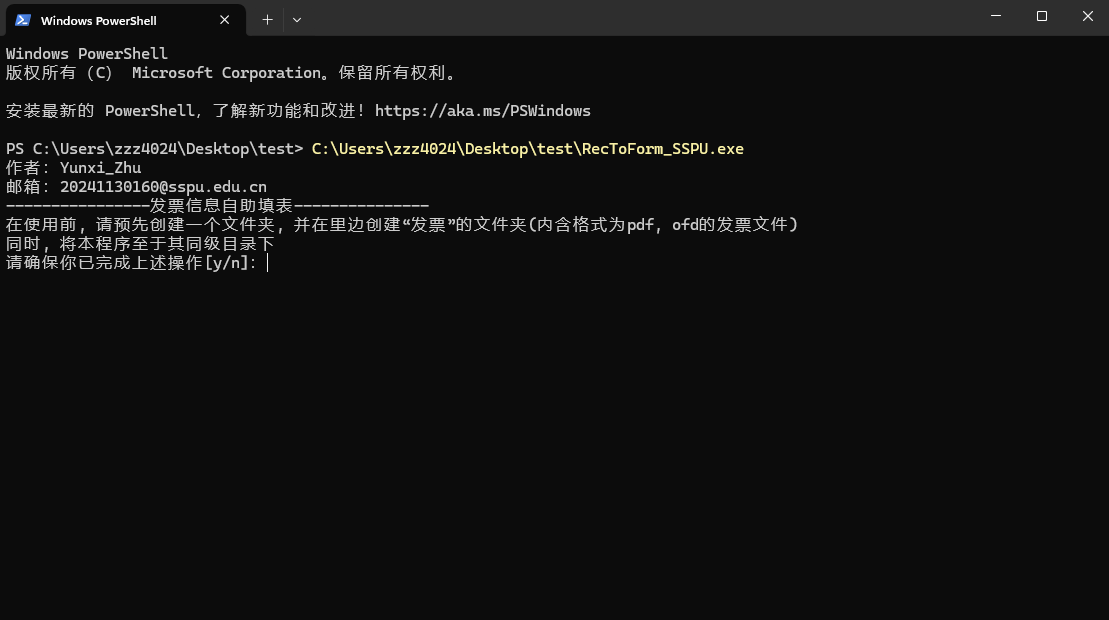
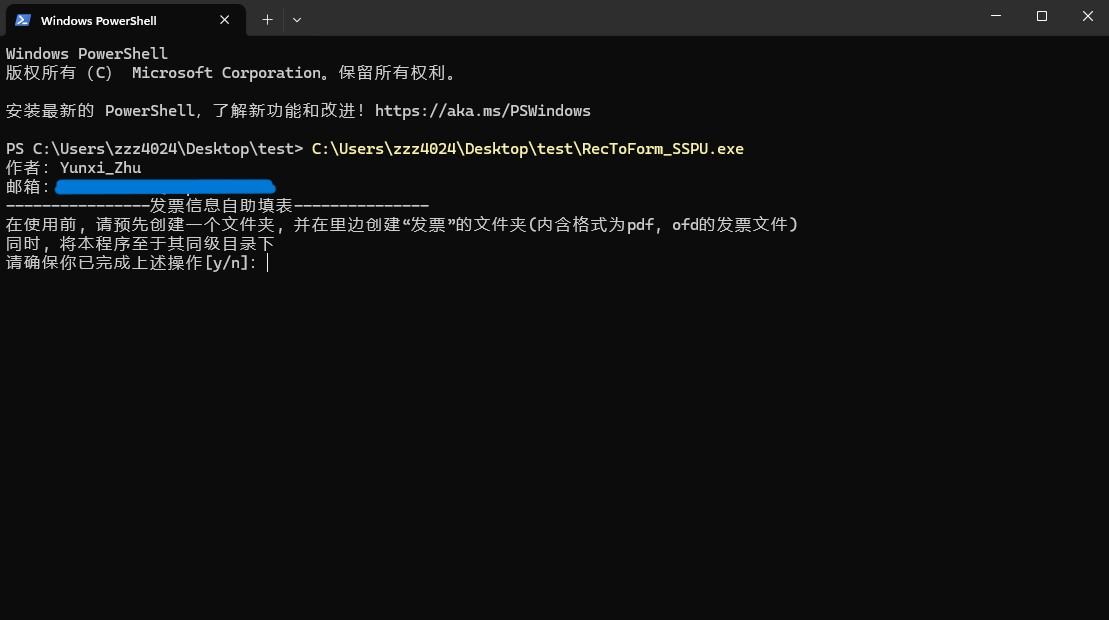
细节修改

Changed region(s): [[0.0307, 0.2758, 0.2453, 0.3371]]

diff --git a/RecToForm_SSPU_Web/RecToForm_front/scripts/script.js b/RecToForm_SSPU_Web/RecToForm_front/scripts/script.js
@@ -226,7 +226,6 @@ document.addEventListener('DOMContentLoaded', () => {
     const initialMessages = [
         { text: "发票信息自助填表（提取发票代码、发票号、发票金额）", type: "warning" },
         { text: "作者：Yunxi_Zhu, Xinger", type: "warning" },
-        { text: "邮箱：20241130160@sspu.edu.cn ；20241113537@sspu.edu.cn", type: "warning" },
         { text: "请上传 PDF 或 OFD 文件以开始分析（可多选文件）", type: "warning" },
         { text: "------------------------------------------------------------------------------------", type: "divider" }
     ];

diff --git a/RecToForm_SSPU_Web/RecToForm_back/functions/RecToForm_SSPU_Web.py b/RecToForm_SSPU_Web/RecToForm_back/functions/RecToForm_SSPU_Web.py
@@ -138,7 +138,6 @@ class RecToForm:
 
 def hint():
     print("作者：Yunxi_Zhu")
-    print("邮箱：20241130160@sspu.edu.cn")
     print("----------------发票信息自助填表---------------")
     print("在使用前, 请预先创建一个文件夹, 并在里边创建“发票”的文件夹(内含格式为pdf, ofd的发票文件)\n同时, 将本程序至于其同级目录下")
     flag = input("请确保你已完成上述操作[y/n]：")
